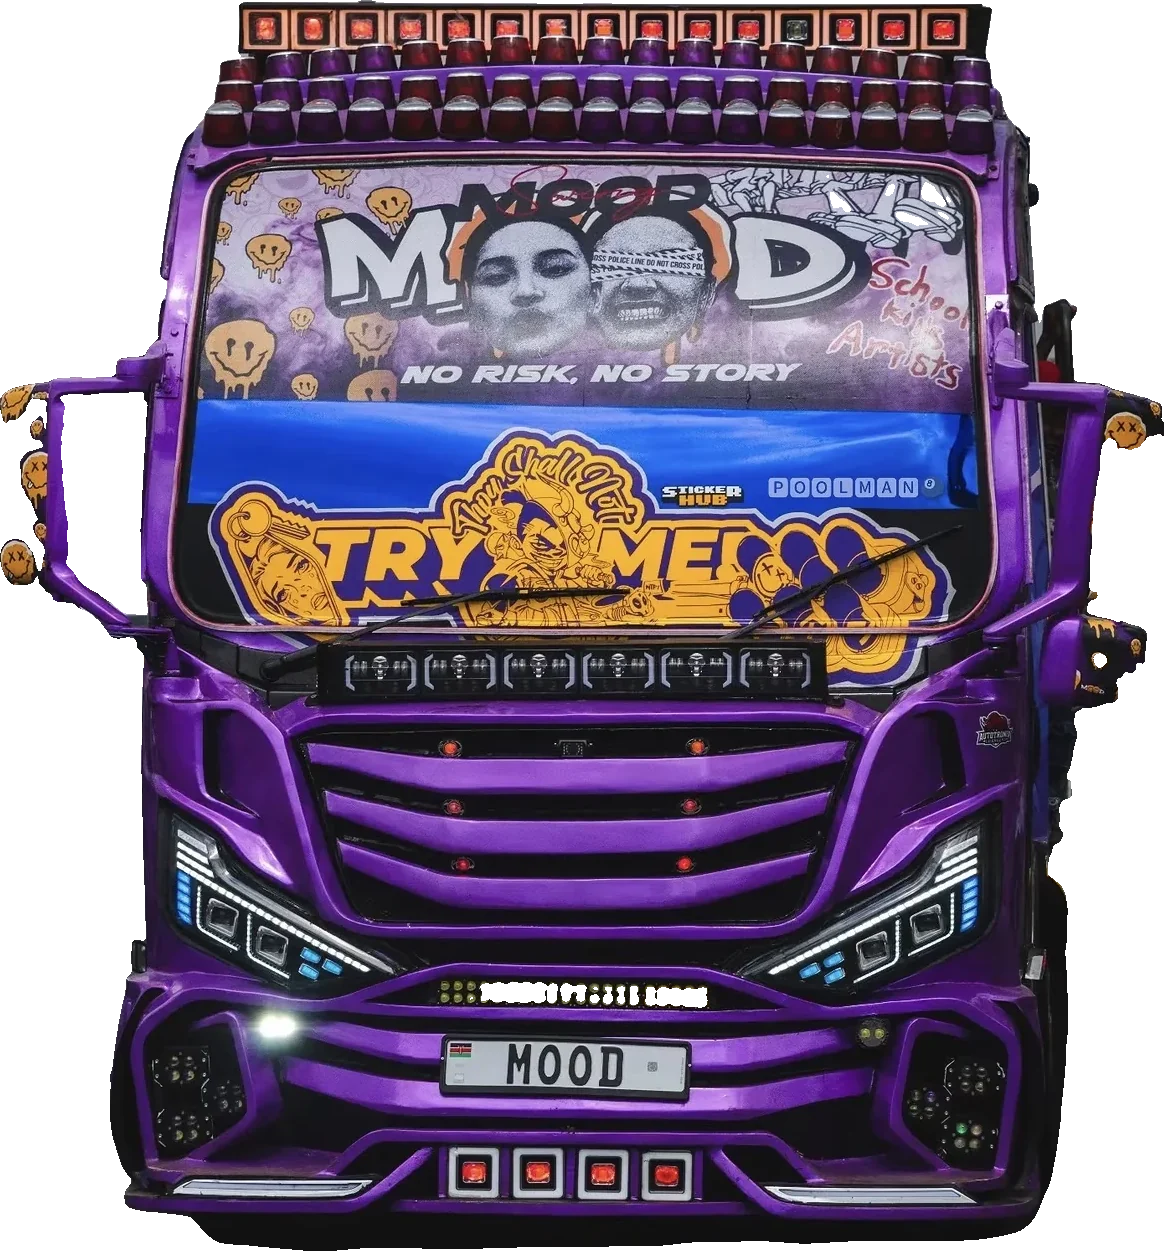
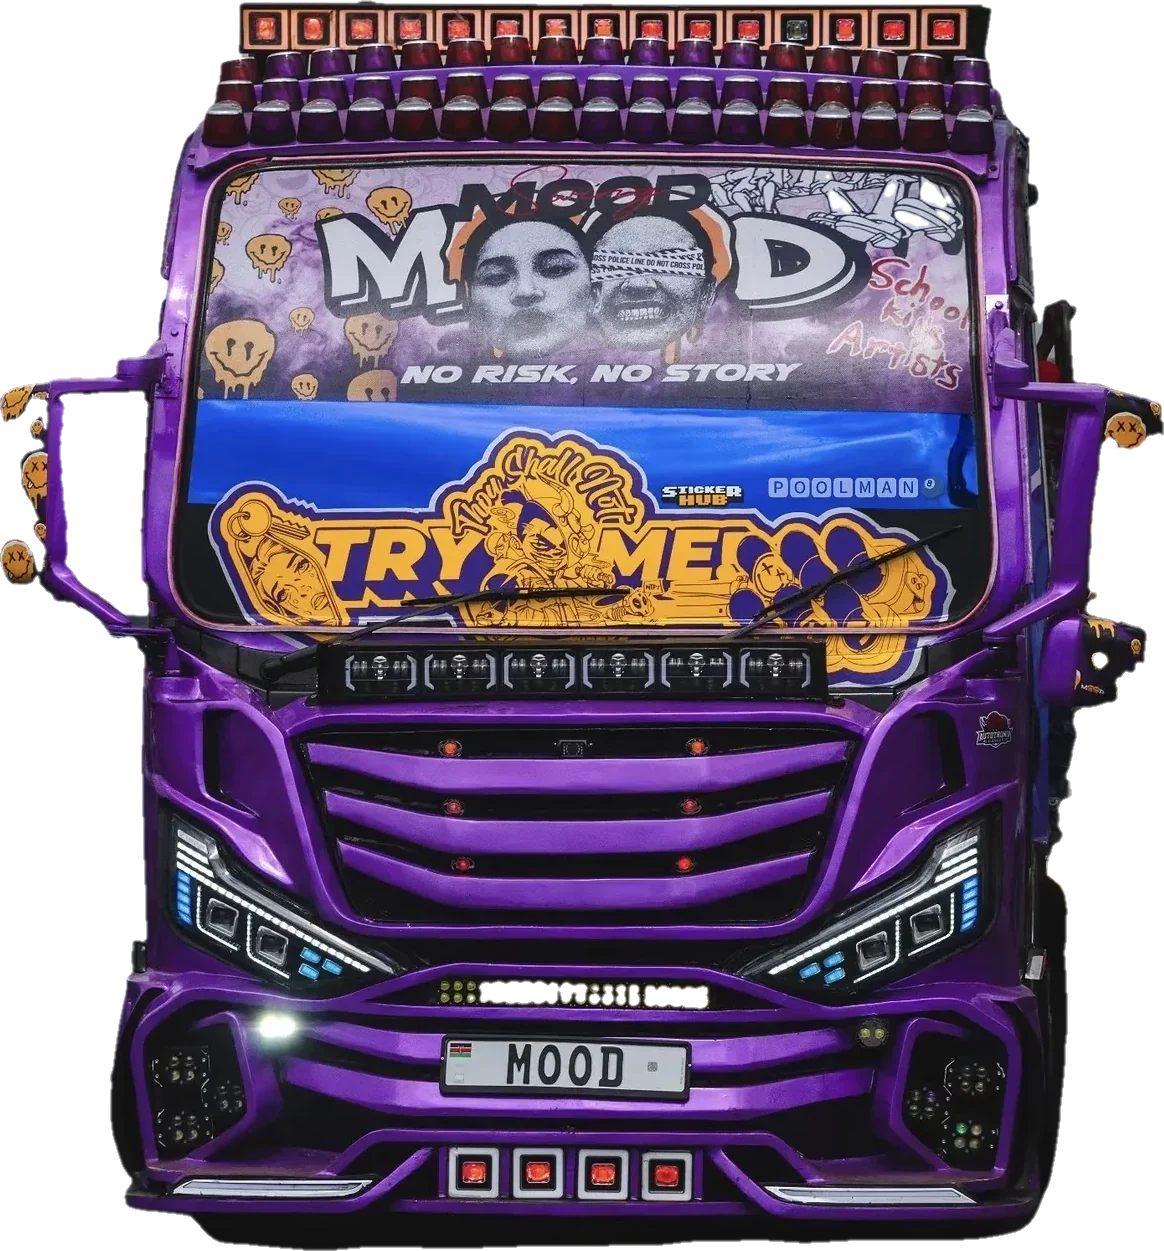
fix(assets): trim road shadow and feather the edges of the matatu cutouts
Claude-Session: https://claude.ai/code/session_01MzDimkdoG7MdhGFLpecq6a

diff --git a/src/sections/hero/HeroPhoto.tsx b/src/sections/hero/HeroPhoto.tsx
@@ -1,5 +1,5 @@
 import { AnimatePresence, motion, type MotionValue } from "motion/react";
-import { photos } from "@/content/photos";
+import { cutouts } from "@/content/cutouts";
 import { useTheme } from "@/features/theme/useTheme";
 
 interface HeroPhotoProps {
@@ -8,33 +8,43 @@ interface HeroPhotoProps {
 }
 
 /**
- * Mood by night in dark mode, by day in light mode. The photo crossfades with
- * the theme and drifts slower than the page for depth.
+ * Just the matatu, cut out of its photo, standing on a soft glow with a floor
+ * shadow. Daylight shot in light mode, the crisp head-on shot at night.
  */
 export function HeroPhoto({ y, scale }: HeroPhotoProps) {
   const { theme } = useTheme();
-  const photo = theme === "dark" ? photos.night : photos.fullSun;
+  const bus = theme === "dark" ? cutouts.frontCrisp : cutouts.frontSun;
 
   return (
     <motion.div
       style={{ y, scale }}
-      className="absolute inset-0 [mask-image:linear-gradient(to_bottom,black_22%,transparent_56%)] md:left-[44%] md:[mask-image:linear-gradient(to_right,transparent,black_30%)]"
+      className="pointer-events-none absolute inset-x-0 top-[7svh] flex h-[46svh] justify-center md:inset-y-0 md:right-[2%] md:left-auto md:h-auto md:w-[52%] md:items-center"
     >
-      <AnimatePresence initial={false}>
-        <motion.img
-          key={photo.id}
-          src={photo.src}
-          width={photo.width}
-          height={photo.height}
-          alt={photo.alt}
-          fetchPriority="high"
-          initial={{ opacity: 0, scale: 1.06 }}
-          animate={{ opacity: 1, scale: 1 }}
-          exit={{ opacity: 0 }}
-          transition={{ duration: 1.1, ease: [0.16, 1, 0.3, 1] }}
-          className="absolute inset-0 size-full object-cover object-[50%_35%]"
+      <div className="relative h-full max-h-[78svh] md:h-[78svh]">
+        <div
+          aria-hidden
+          className="absolute inset-[8%] -z-10 rounded-full bg-mood-purple/35 blur-[90px] dark:bg-neon-pink/30"
         />
-      </AnimatePresence>
+        <div
+          aria-hidden
+          className="absolute -bottom-[3%] left-1/2 h-[7%] w-[86%] -translate-x-1/2 rounded-[100%] bg-ink/45 blur-xl dark:bg-black/70"
+        />
+        <AnimatePresence initial={false} mode="popLayout">
+          <motion.img
+            key={bus.src}
+            src={bus.src}
+            width={bus.width}
+            height={bus.height}
+            alt={bus.alt}
+            fetchPriority="high"
+            initial={{ opacity: 0, y: 30, scale: 0.96 }}
+            animate={{ opacity: 1, y: 0, scale: 1 }}
+            exit={{ opacity: 0, scale: 1.02 }}
+            transition={{ duration: 0.9, ease: [0.16, 1, 0.3, 1] }}
+            className="relative h-full w-auto object-contain drop-shadow-[0_30px_40px_rgb(0_0_0/0.35)]"
+          />
+        </AnimatePresence>
+      </div>
     </motion.div>
   );
 }
